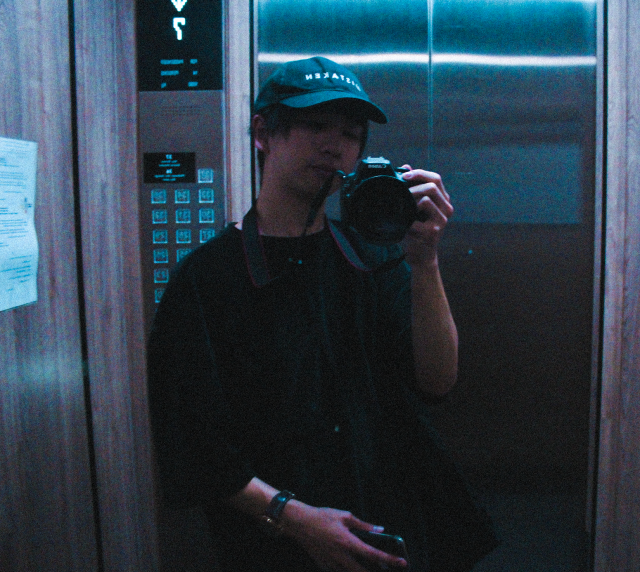
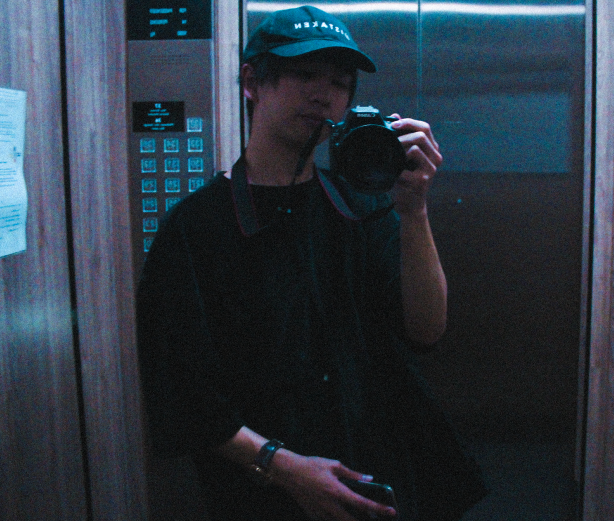
画像のアスペクト比調整

diff --git a/public/index.html b/public/index.html
@@ -8,78 +8,78 @@
   <meta name="description" content="">
   <meta name="author" content="">
   <meta name="generator" content="Hugo 0.34" />
-  
-  
-  
+
+
+
   <link rel="apple-touch-icon-precomposed" href="https://reiyaono.github.io/hugo/images/icons/%25!s%28MISSING%29" />
 
   <link rel="stylesheet" href="https://reiyaono.github.io/hugo/assets/css/main.css" />
 
-  
+
     <link rel="stylesheet" href="https://reiyaono.github.io/hugo/assets/css/page.css" />
-  
 
-  
+
+
     <link rel="stylesheet" href="https://reiyaono.github.io/hugo/assets/css/font-awesome.min.css" />
-  
 
-  
 
-  
-  
-  
+
+
+
+
+
 
   <noscript><link rel="stylesheet" href="https://reiyaono.github.io/hugo/assets/css/noscript.css" /></noscript>
 </head>
 
   <body class="is-loading">
 
-    
+
       <div id="wrapper">
 
-        
+
           <section id="main">
             <header>
-              <span class="avatar"><img src="https://reiyaono.github.io/hugo/images/avatars/%25!s%28MISSING%29" alt="avatar" height="130" width="130" ></span>
+              <span class="avatar"><img src="https://reiyaono.github.io/hugo/images/avatars/test.jpg" alt="avatar" height="130" width="130" ></span>
               <h1 class="name">
-                
-                  
-                
+
+
+
               </h1>
-              
 
-              
 
-              
 
-              
+
+
+
+
             </header>
 
             <footer>
               <ul class="icons">
-                
+
               </ul>
-              
+
             </footer>
           </section>
 
-        
+
           <footer id="footer">
   <ul class="copyright">
-    <li>&copy; 
-      
-        
+    <li>&copy;
+
+
       </li>
     <li>
       </li>
   </ul>
-   
+
 
 </footer>
 
 
       </div>
-    
+
 
 <script>
   if ('addEventListener' in window) {
@@ -87,16 +87,6 @@
     document.body.className += (navigator.userAgent.match(/(MSIE|rv:11\.0)/) ? ' is-ie' : '');
   }
 </script>
-
-
-
-
-
-
-
-
-
-  
 
   </body>
 </html>
